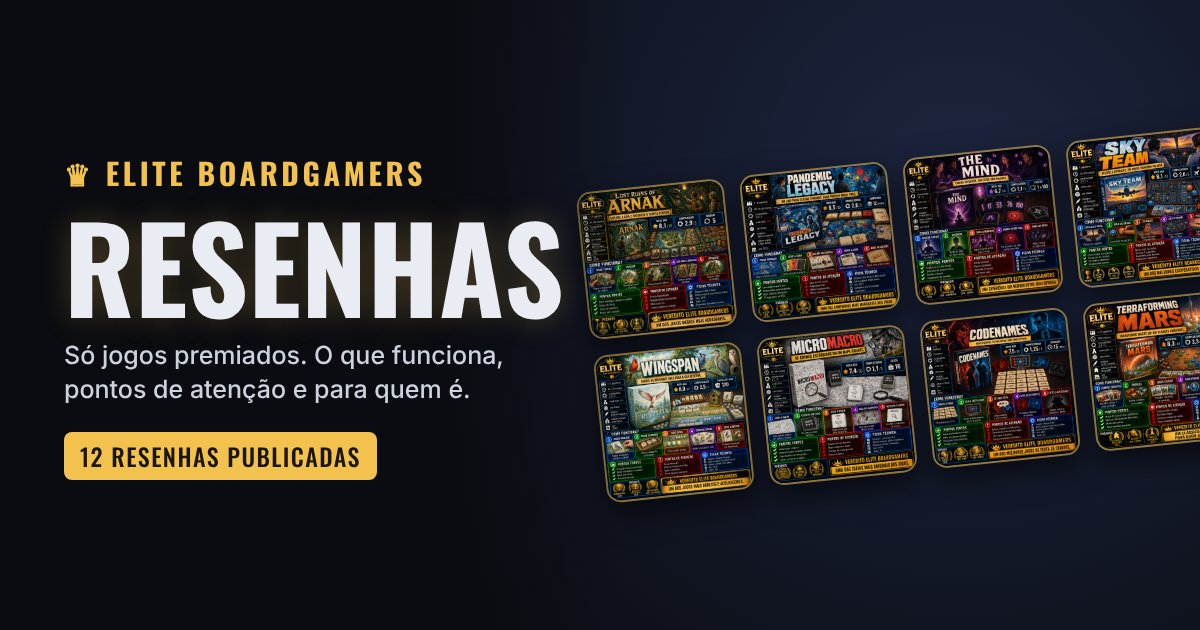
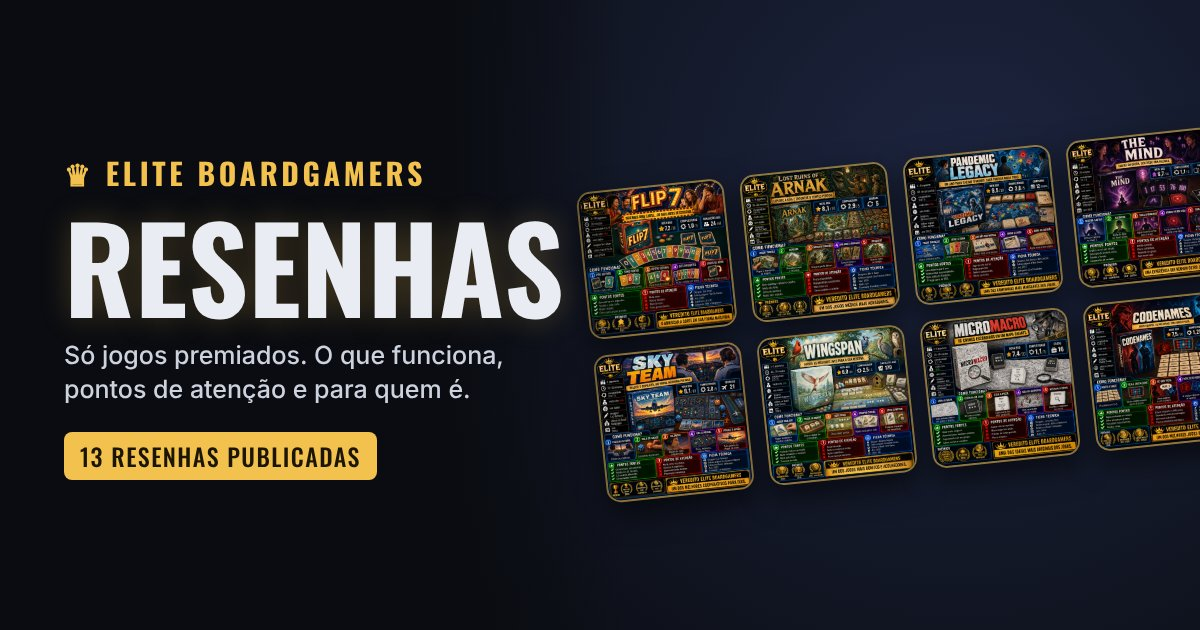
Resenha Flip 7
Página, infográfico e capa; card em resenhas/, status publicado na pauta e capa da página de resenhas atualizada.

Claude-Session: https://claude.ai/code/session_01MzZSiG5p8AUaHMyB6shk96

Changed region(s): [[0.4625, 0.2111, 1.0, 0.7841], [0.0617, 0.7238, 0.0925, 0.754]]

diff --git a/flip-7/index.html b/flip-7/index.html
@@ -1,0 +1,150 @@
+<!doctype html>
+<html lang="pt-BR">
+<head>
+<meta charset="utf-8">
+<meta name="viewport" content="width=device-width, initial-scale=1">
+<title>Resenha Flip 7 | Elite Boardgamers</title>
+<meta name="description" content="Resenha de Flip 7, vencedor do Golden Geek de Festa 2024: como funciona, pontos fortes, pontos de atenção e para quem é.">
+<meta property="og:title" content="Flip 7 vale a pena? Resenha Elite Boardgamers">
+<meta property="og:description" content="Resenha de Flip 7, vencedor do Golden Geek de Festa 2024: como funciona, pontos fortes, pontos de atenção e para quem é.">
+<meta property="og:type" content="article">
+<meta property="og:url" content="https://meruvash.github.io/Golden-Geek/flip-7/">
+<meta property="og:image" content="https://meruvash.github.io/Golden-Geek/flip-7/capa.jpg">
+<meta property="og:image:width" content="800">
+<meta property="og:image:height" content="800">
+<link rel="preconnect" href="https://fonts.googleapis.com">
+<link rel="preconnect" href="https://fonts.gstatic.com" crossorigin>
+<link href="https://fonts.googleapis.com/css2?family=Oswald:wght@500;700&family=Inter:wght@400;500;600;700&display=swap" rel="stylesheet">
+<style>
+:root{--bg:#0a0c11;--card:#121620;--card2:#171c28;--line:#252c3b;--ink:#e9ecf2;--muted:#9ba4b4;--gold:#f2c14e;--good:#4ade80;--bad:#f2555a;--a:#e0c23f}
+*{box-sizing:border-box}
+html{-webkit-text-size-adjust:100%}
+body{margin:0;background:var(--bg);color:var(--ink);font:16px/1.6 Inter,system-ui,-apple-system,"Segoe UI",Roboto,sans-serif}
+.wrap{max-width:860px;margin:0 auto;padding:0 16px 48px}
+a{color:var(--a)}
+h1,h2,h3,.disp{font-family:Oswald,Impact,"Arial Narrow",sans-serif;letter-spacing:.01em}
+h2{font-size:1.7rem;line-height:1.2;margin:48px 0 14px;text-transform:uppercase}
+h2 .k{color:var(--gold)}
+p{margin:0 0 14px}
+.top{display:flex;justify-content:space-between;align-items:center;gap:12px;padding:16px 0;font-size:.85rem;color:var(--muted)}
+.top a{color:var(--muted);text-decoration:none}
+.top a:hover{color:var(--ink)}
+.hero{padding:28px 0 8px}
+.eyebrow{font-size:.78rem;font-weight:700;letter-spacing:.14em;text-transform:uppercase;color:var(--gold);margin-bottom:10px}
+.hero h1{font-size:clamp(2rem,6vw,3.1rem);line-height:1.05;margin:0 0 14px;text-transform:uppercase}
+.hero h1 span{color:var(--a)}
+.lede{font-size:1.1rem;color:#cdd3de;max-width:62ch}
+.tags{display:flex;flex-wrap:wrap;gap:8px;margin:18px 0 0}
+.tag{border:1px solid var(--line);background:var(--card);border-radius:999px;padding:5px 12px;font-size:.84rem}
+.meta{margin-top:14px;font-size:.82rem;color:var(--muted)}
+figure{margin:28px 0 0}
+figure a{display:block;border-radius:14px;overflow:hidden;border:1px solid var(--line)}
+figure img{display:block;width:100%;height:auto}
+figcaption{font-size:.82rem;color:var(--muted);margin-top:8px;text-align:center}
+.awards{list-style:none;margin:0;padding:0;display:grid;grid-template-columns:repeat(2,1fr);gap:10px}
+.aw{display:grid;grid-template-columns:auto 1fr;column-gap:12px;background:var(--card);border:1px solid var(--line);border-radius:12px;padding:12px 14px}
+.aw.win{border-color:rgba(242,193,78,.55);background:linear-gradient(180deg,rgba(242,193,78,.1),rgba(242,193,78,.02))}
+.aw-y{grid-row:span 3;font-family:Oswald,sans-serif;font-size:1.4rem;color:var(--muted);line-height:1.1}
+.aw.win .aw-y{color:var(--gold)}
+.aw-p{font-weight:700}
+.aw-c{font-size:.86rem;color:#cdd3de}
+.aw-r{font-size:.76rem;font-weight:700;letter-spacing:.06em;text-transform:uppercase;color:var(--muted)}
+.aw.win .aw-r{color:var(--gold)}
+.tablewrap{border:1px solid var(--line);border-radius:14px;background:var(--card);overflow:hidden}
+table{width:100%;border-collapse:collapse;font-size:.94rem}
+th,td{padding:11px 14px;text-align:left;vertical-align:top;border-bottom:1px solid var(--line)}
+tr:last-child th,tr:last-child td{border-bottom:0}
+th{width:38%;font-weight:600;color:var(--muted);font-size:.86rem}
+td.na{color:var(--muted);font-style:italic}
+.note{font-size:.84rem;color:var(--muted);margin-top:10px}
+.list{list-style:none;margin:0;padding:0;display:grid;gap:10px}
+.list li{background:var(--card);border:1px solid var(--line);border-left:4px solid var(--c);border-radius:12px;padding:14px 16px}
+.list.good li{--c:var(--good)} .list.bad li{--c:var(--bad)}
+.list strong{display:block;font-size:1.02rem;margin-bottom:4px}
+.list p{margin:0;font-size:.93rem;color:#cdd3de}
+.sev{display:inline-block;font-size:.72rem;font-weight:700;letter-spacing:.05em;text-transform:uppercase;border-radius:999px;padding:2px 9px;margin-bottom:6px;border:1px solid}
+.sev.grave{color:#ff7a7e;border-color:rgba(242,85,90,.5);background:rgba(242,85,90,.12)}
+.sev.moderada{color:#f7b267;border-color:rgba(247,178,103,.5);background:rgba(247,178,103,.1)}
+.sev.leve{color:#a5b4c8;border-color:rgba(165,180,200,.4);background:rgba(165,180,200,.08)}
+h2.good{color:var(--good)} h2.bad{color:var(--bad)}
+.duo{display:grid;grid-template-columns:1fr 1fr;gap:12px}
+.box{background:var(--card);border:1px solid var(--line);border-top:3px solid var(--c);border-radius:14px;padding:16px}
+.box.yes{--c:var(--good)} .box.no{--c:var(--bad)}
+.box h3{margin:0 0 8px;font-size:1.1rem;text-transform:uppercase;color:var(--c)}
+.box ul{margin:0;padding-left:18px;color:#cdd3de;font-size:.94rem}
+.box li{margin-bottom:6px}
+.verdict{margin-top:48px;border:1px solid rgba(242,193,78,.45);background:linear-gradient(180deg,rgba(242,193,78,.1),rgba(242,193,78,.02));border-radius:16px;padding:22px}
+.verdict h2{margin:0 0 6px;color:var(--gold)}
+.badge{display:inline-block;font-weight:700;font-size:.82rem;letter-spacing:.06em;text-transform:uppercase;background:var(--gold);color:#1b1503;border-radius:6px;padding:3px 10px;margin-bottom:14px}
+.tagline{font-family:Oswald,sans-serif;text-transform:uppercase;font-size:1.15rem;line-height:1.35;color:var(--gold);margin:18px 0 0;text-align:center}
+.sources{font-size:.88rem;color:var(--muted);padding-left:18px}
+.sources li{margin-bottom:6px}
+.sources a{color:#cdd3de}
+footer{margin-top:40px;padding-top:18px;border-top:1px solid var(--line);font-size:.84rem;color:var(--muted);display:flex;flex-wrap:wrap;justify-content:space-between;gap:10px}
+footer a{color:var(--muted)}
+@media (max-width:700px){
+ .awards,.duo{grid-template-columns:1fr}
+ h2{font-size:1.45rem;margin-top:40px}
+}
+</style>
+</head>
+<body>
+<div class="wrap">
+ <nav class="top">
+  <span class="disp" style="color:var(--gold);letter-spacing:.08em">♛ ELITE BOARDGAMERS</span>
+  <a href="../resenhas/">Todas as resenhas →</a>
+ </nav>
+
+ <header class="hero">
+  <div class="eyebrow">Elite Boardgamers apresenta</div>
+  <h1>Sete cartas diferentes ou estoura: <span>Flip 7</span></h1>
+  <p class="lede">Flip 7 é um jogo de cartas de arriscar a sorte: vire cartas até juntar sete números diferentes, mas pare antes de repetir um. Venceu o Golden Geek de Festa em 2024, foi indicado ao Spiel des Jahres 2025 e finalista do As d&#x27;Or 2026.</p>
+  <div class="tags"><span class="tag">3+ jogadores</span><span class="tag">20 min</span><span class="tag">Festa</span><span class="tag">Arriscar a sorte</span><span class="tag">Cartas</span></div>
+  <p class="meta">Resenha · Consulta às fontes em 26/10/2026</p>
+ </header>
+
+ <figure>
+  <a href="infografico.webp" target="_blank" rel="noopener"><img src="infografico.webp" width="1024" height="1024" alt="Infográfico Elite Boardgamers sobre o jogo Flip 7"></a>
+  <figcaption>Toque na imagem para ver em tamanho cheio.</figcaption>
+ </figure>
+
+ <h2>Premia<span class="k">ções</span></h2>
+ <ul class="awards"><li class="aw"><span class="aw-y">2026</span><span class="aw-p">As d&#x27;Or</span><span class="aw-c">Jeu de l&#x27;année</span><span class="aw-r">Finalista</span></li><li class="aw"><span class="aw-y">2025</span><span class="aw-p">Spiel des Jahres</span><span class="aw-c">Spiel des Jahres</span><span class="aw-r">Indicado</span></li><li class="aw win"><span class="aw-y">2024</span><span class="aw-p">Golden Geek</span><span class="aw-c">Festa</span><span class="aw-r">Vencedor</span></li><li class="aw"><span class="aw-y">2024</span><span class="aw-p">Golden Geek</span><span class="aw-c">Jogo do Ano leve</span><span class="aw-r">2º lugar</span></li></ul>
+
+ <h2>Ficha <span class="k">técnica</span></h2>
+ <div class="tablewrap"><table><tbody><tr><th>Ano</th><td>2024</td></tr><tr><th>Designer</th><td>Eric Olsen</td></tr><tr><th>Editora original</th><td>The Op Games</td></tr><tr><th>Editora no Brasil</th><td class=na>não confirmado nas fontes consultadas</td></tr><tr><th>Jogadores</th><td>3 a 18 segundo o BGG</td></tr><tr><th>Duração anunciada</th><td>20 minutos</td></tr><tr><th>Idade</th><td class=na>não confirmado nas fontes consultadas</td></tr><tr><th>Nota BGG</th><td>7,2 / 10 (cerca de 24 mil avaliações)</td></tr><tr><th>Peso BGG</th><td>1,04 / 5</td></tr><tr><th>Nota Ludopedia</th><td class=na>não confirmado nas fontes consultadas</td></tr><tr><th>Modo solo oficial</th><td>Não</td></tr><tr><th>Expansão</th><td>Flip 7: With a Vengeance (2026)</td></tr><tr><th>Baralho</th><td>94 cartas, números de 0 a 12</td></tr></tbody></table></div>
+ <p class="note">Números do BoardGameGeek obtidos por busca. Não encontramos edição brasileira à venda.</p>
+
+ <h2>Como <span class="k">funciona</span></h2>
+ <p>Na sua vez, você decide: virar mais uma carta do baralho ou parar e guardar os pontos da rodada.</p><p>As cartas de número, de 0 a 12, somam pontos, mas se você virar um número que já tem na sua frente, estoura e perde tudo daquela rodada. O baralho tem 94 cartas: uma carta 1, duas cartas 2 e assim por diante até doze cartas 12, além de cartas especiais.</p><p>Quem junta sete números diferentes encerra a rodada na hora e ganha 15 pontos de bônus. O jogo acaba quando alguém chega a 200 pontos; vence quem tiver mais.</p>
+ 
+
+ <h2 class="good">👍 O que funciona muito bem</h2>
+ <ul class="list good"><li><strong>Aprende-se em segundos</strong><p>A Zatu destaca que o jogo leva segundos para aprender e serve para praticamente qualquer pessoa.</p></li><li><strong>Tensão a cada carta</strong><p>A Board Game Review UK diz que a sorte é justamente o grande atrativo: cada carta virada pode ser a que estoura.</p></li><li><strong>Viciante</strong><p>A segunda opinião da Zatu chama o jogo de super viciante, o arriscar a sorte mais simples possível.</p></li><li><strong>Muita gente na mesa</strong><p>O BGG lista de 3 a 18 jogadores, ótimo para festas.</p></li></ul>
+
+ <h2 class="bad">👎 Pontos de atenção</h2>
+ <ul class="list bad"><li><span class="sev moderada">Moderada</span><strong>Muita sorte</strong><p>A Hexagamers lista a dependência de sorte como ponto negativo; contar cartas ajuda pouco.</p></li><li><span class="sev moderada">Moderada</span><strong>Poucas decisões</strong><p>A mesma resenha diz que há poucas decisões significativas e que o jogo não sustenta uma noite inteira.</p></li><li><span class="sev leve">Leve</span><strong>Nada de novo</strong><p>A Zatu lembra que arriscar a sorte não é novidade e rejeita o rótulo de melhor jogo de cartas de todos os tempos.</p></li><li><span class="sev leve">Leve</span><strong>Caixa grande demais</strong><p>A Board Game Review UK critica a caixa, maior do que o conteúdo precisa.</p></li></ul>
+
+ <h2>Para quem <span class="k">é?</span></h2>
+ <div class="duo">
+  <div class="box yes"><h3>É para você se…</h3><ul><li>Quer um jogo rápido para grupos grandes</li><li>Joga com família e pessoas que não jogam</li><li>Gosta de tensão de arriscar a sorte</li></ul></div>
+  <div class="box no"><h3>Pense duas vezes se…</h3><ul><li>Busca decisões estratégicas</li><li>Não gosta de sorte</li><li>Quer o jogo principal da noite</li></ul></div>
+ </div>
+
+ <section class="verdict">
+  <h2>♛ Veredito Elite Boardgamers</h2>
+  <span class="badge">Recomendado para público específico</span>
+  <p>Flip 7 é o arriscar a sorte em sua forma mais pura: aprende-se em segundos e cada carta virada gera tensão. É muita sorte e pouca decisão, mas como jogo de festa e abertura de noite funciona muito bem.</p>
+  <p class="tagline">Vira mais uma? Sete diferentes ou estoura.</p>
+ </section>
+
+ <h2>Fontes</h2>
+ <ul class="sources"><li><a href="https://boardgamegeek.com/boardgame/420087/flip-7" target="_blank" rel="noopener">BoardGameGeek – Flip 7</a> — designer, editora, jogadores, duração, peso</li><li><a href="https://boardgamegeek.com/geeksearch.php?action=search&amp;objecttype=boardgame&amp;q=flip+7" target="_blank" rel="noopener">BoardGameGeek – busca Flip 7</a> — nota, avaliações, expansão</li><li><a href="https://hexagamers.com/flip-7-review/" target="_blank" rel="noopener">Hexagamers – Flip 7 review</a> — sorte, poucas decisões</li><li><a href="https://zatu.com/product/flip-7/" target="_blank" rel="noopener">Zatu – Flip 7</a> — acessibilidade, originalidade</li><li><a href="https://zatu.com/en-us/blogs/reviews/flip-7-second-opinion" target="_blank" rel="noopener">Zatu – Flip 7 second opinion</a> — viciante</li><li><a href="https://boardgamereview.co.uk/game-reviews/flip-7-card-game-review/" target="_blank" rel="noopener">Board Game Review UK – Flip 7</a> — tensão, caixa</li><li><a href="https://en.boardgamearena.com/gamepanel?game=flipseven" target="_blank" rel="noopener">Board Game Arena – Flip 7</a> — 200 pontos, regra de estouro</li><li><a href="https://www.asmodee.co.uk/blogs/news/how-to-play-flip-7" target="_blank" rel="noopener">Asmodee UK – Como jogar Flip 7</a> — bônus de 15, baralho</li><li>Consulta às páginas: 26/10/2026.</li></ul>
+
+ <footer>
+  <span>Resenha · Elite Boardgamers</span>
+  <span><a href="../resenhas/">Todas as resenhas</a> · <a href="../">Consulta Golden Geek</a></span>
+ </footer>
+</div>
+</body>
+</html>

diff --git a/resenhas/index.html b/resenhas/index.html
@@ -53,6 +53,14 @@ footer a{color:var(--muted)}
  <p class="lede">O que funciona, pontos de atenção e para quem é cada jogo.</p>
 
  <div class="grid">
+  <a class="card" href="../flip-7/">
+   <img src="../flip-7/capa.jpg" width="800" height="800" alt="Infográfico Elite Boardgamers sobre o jogo Flip 7" loading="lazy">
+   <div class="body">
+    <div class="kicker">Resenha · Jogo de festa</div>
+    <h2>Flip 7 vale a pena?</h2>
+    <p>Resenha de Flip 7, vencedor do Golden Geek de Festa 2024: como funciona, pontos fortes, pontos de atenção e para quem é.</p>
+   </div>
+  </a>
   <a class="card" href="../arnak/">
    <img src="../arnak/capa.jpg" width="800" height="800" alt="Infográfico Elite Boardgamers sobre o jogo Lost Ruins of Arnak" loading="lazy">
    <div class="body">
